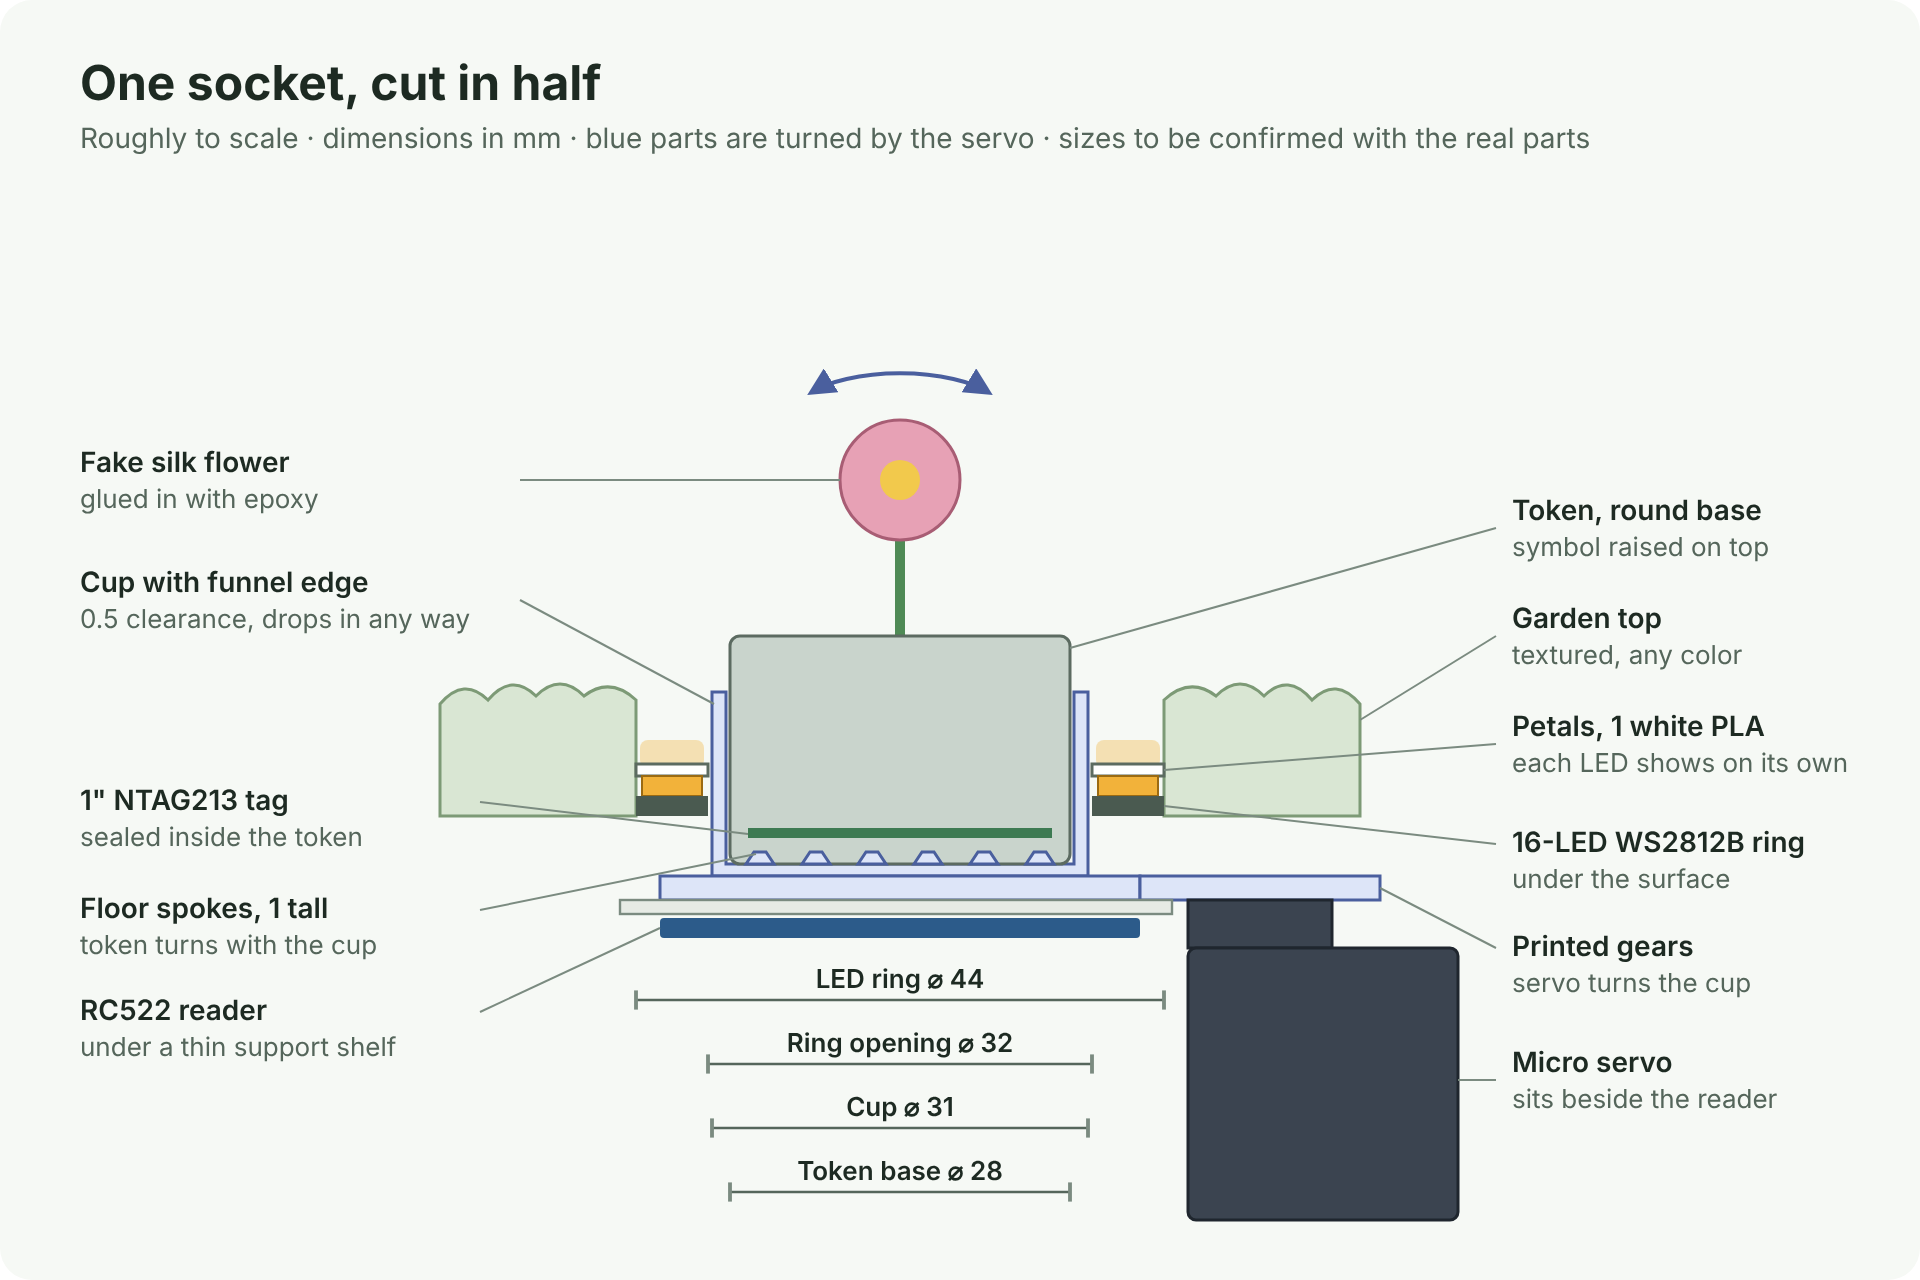
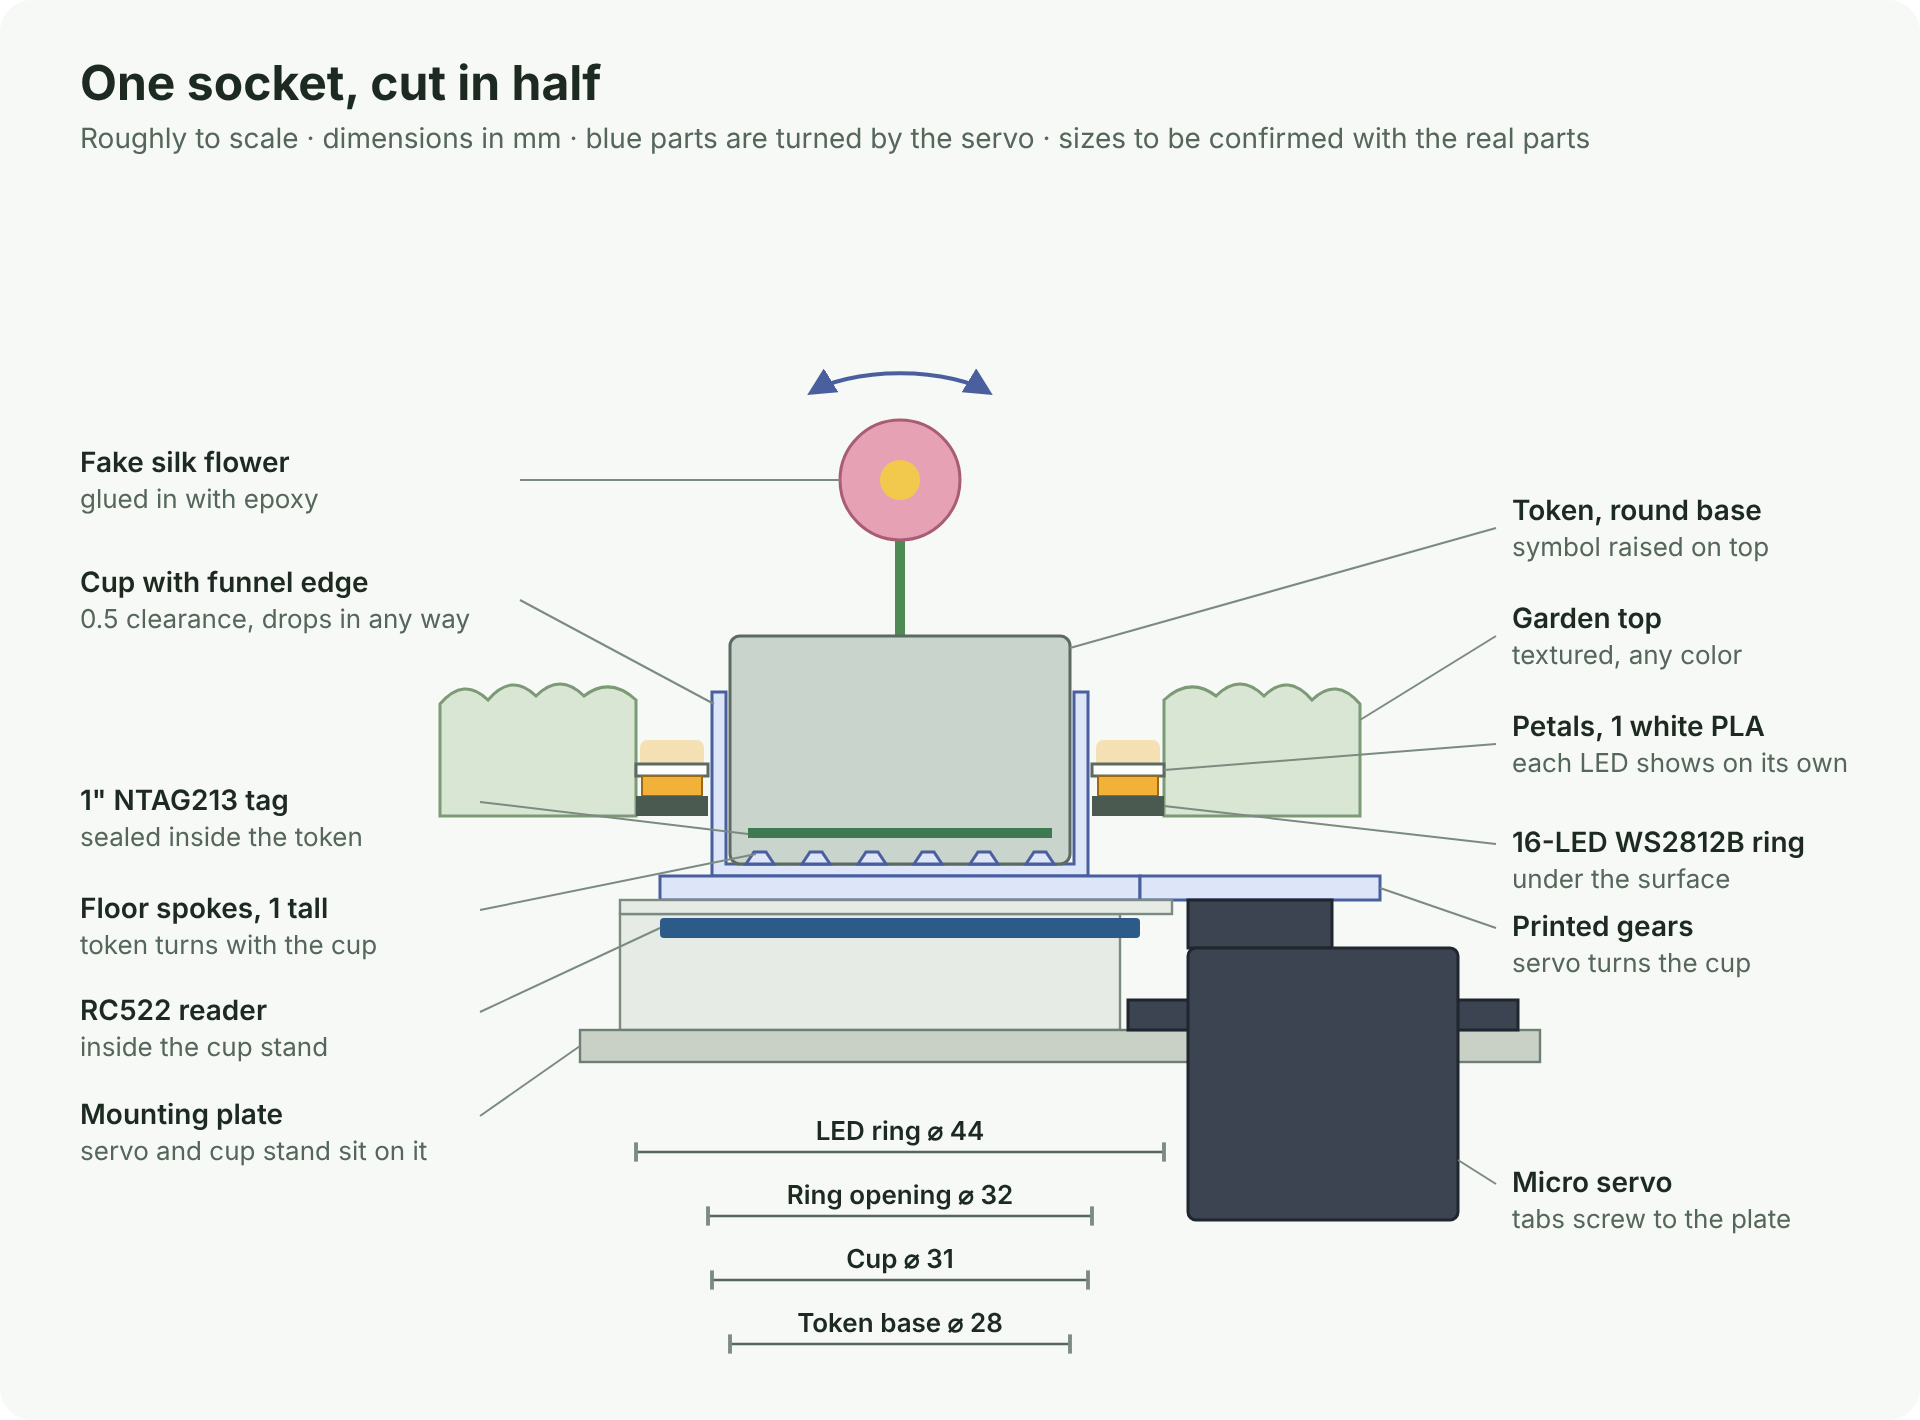
added png images to readme

diff --git a/README.md b/README.md
@@ -47,16 +47,20 @@ The interaction logic stays the same across tops. Only the tag-to-reaction mappi
 
 ## Diagrams
 
-<!-- Replace the file names below with your actual diagram files in the diagrams/ folder. -->
+The design decisions behind these diagrams are my own. I used Claude Code to help draw them up.
 
-### System overview
-![System overview](diagrams/system-overview.png)
 
-### Wiring
-![Wiring diagram](diagrams/wiring.png)
+### Garden Overview
+![Garden Overview](diagrams/learning-garden-overview.png)
 
-### Interaction flow
-![Interaction flow](diagrams/interaction-flow.png)
+### Socket
+![Socket](diagrams/learning-garden-socket.png)
+
+### Socket top view
+![Socket top view](diagrams/learning-garden-socket-top.png)
+
+### System
+![System](diagrams/learning-garden-system.png)
 
 ## Roadmap
 
